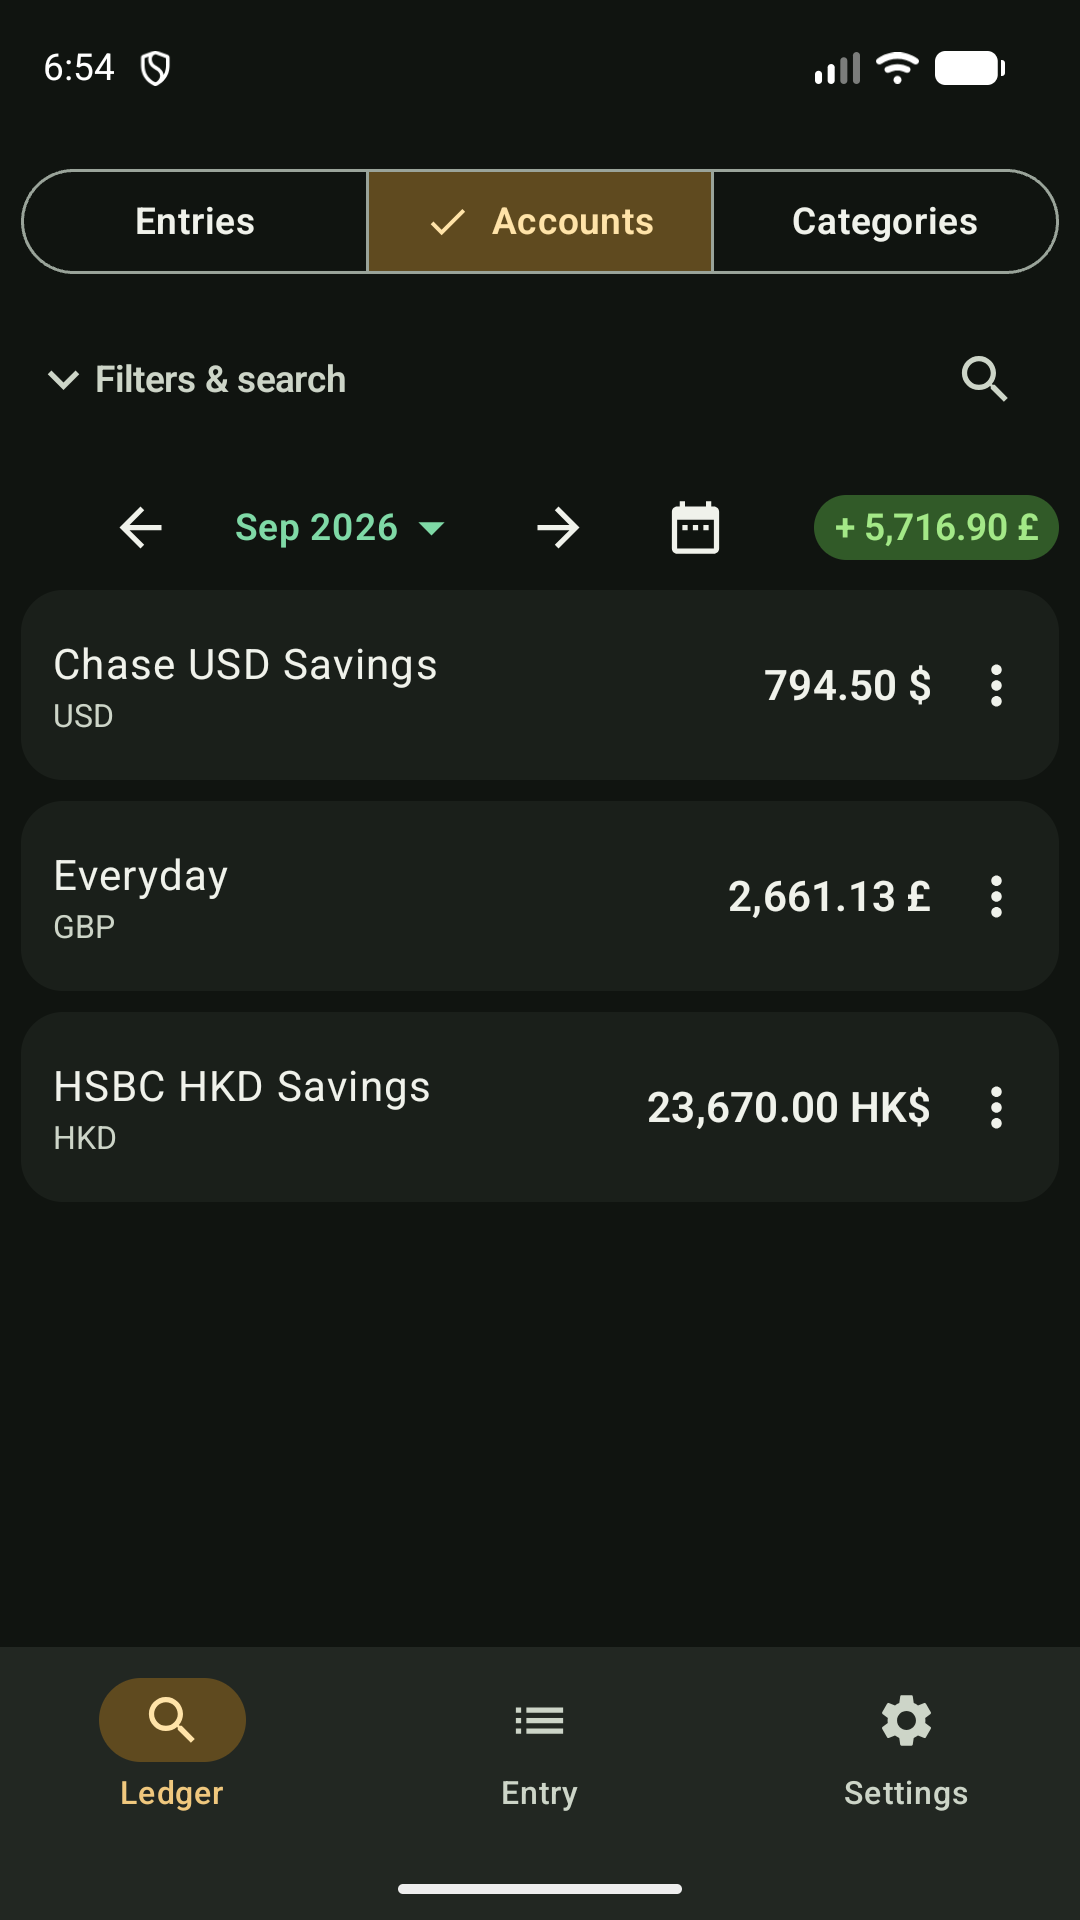
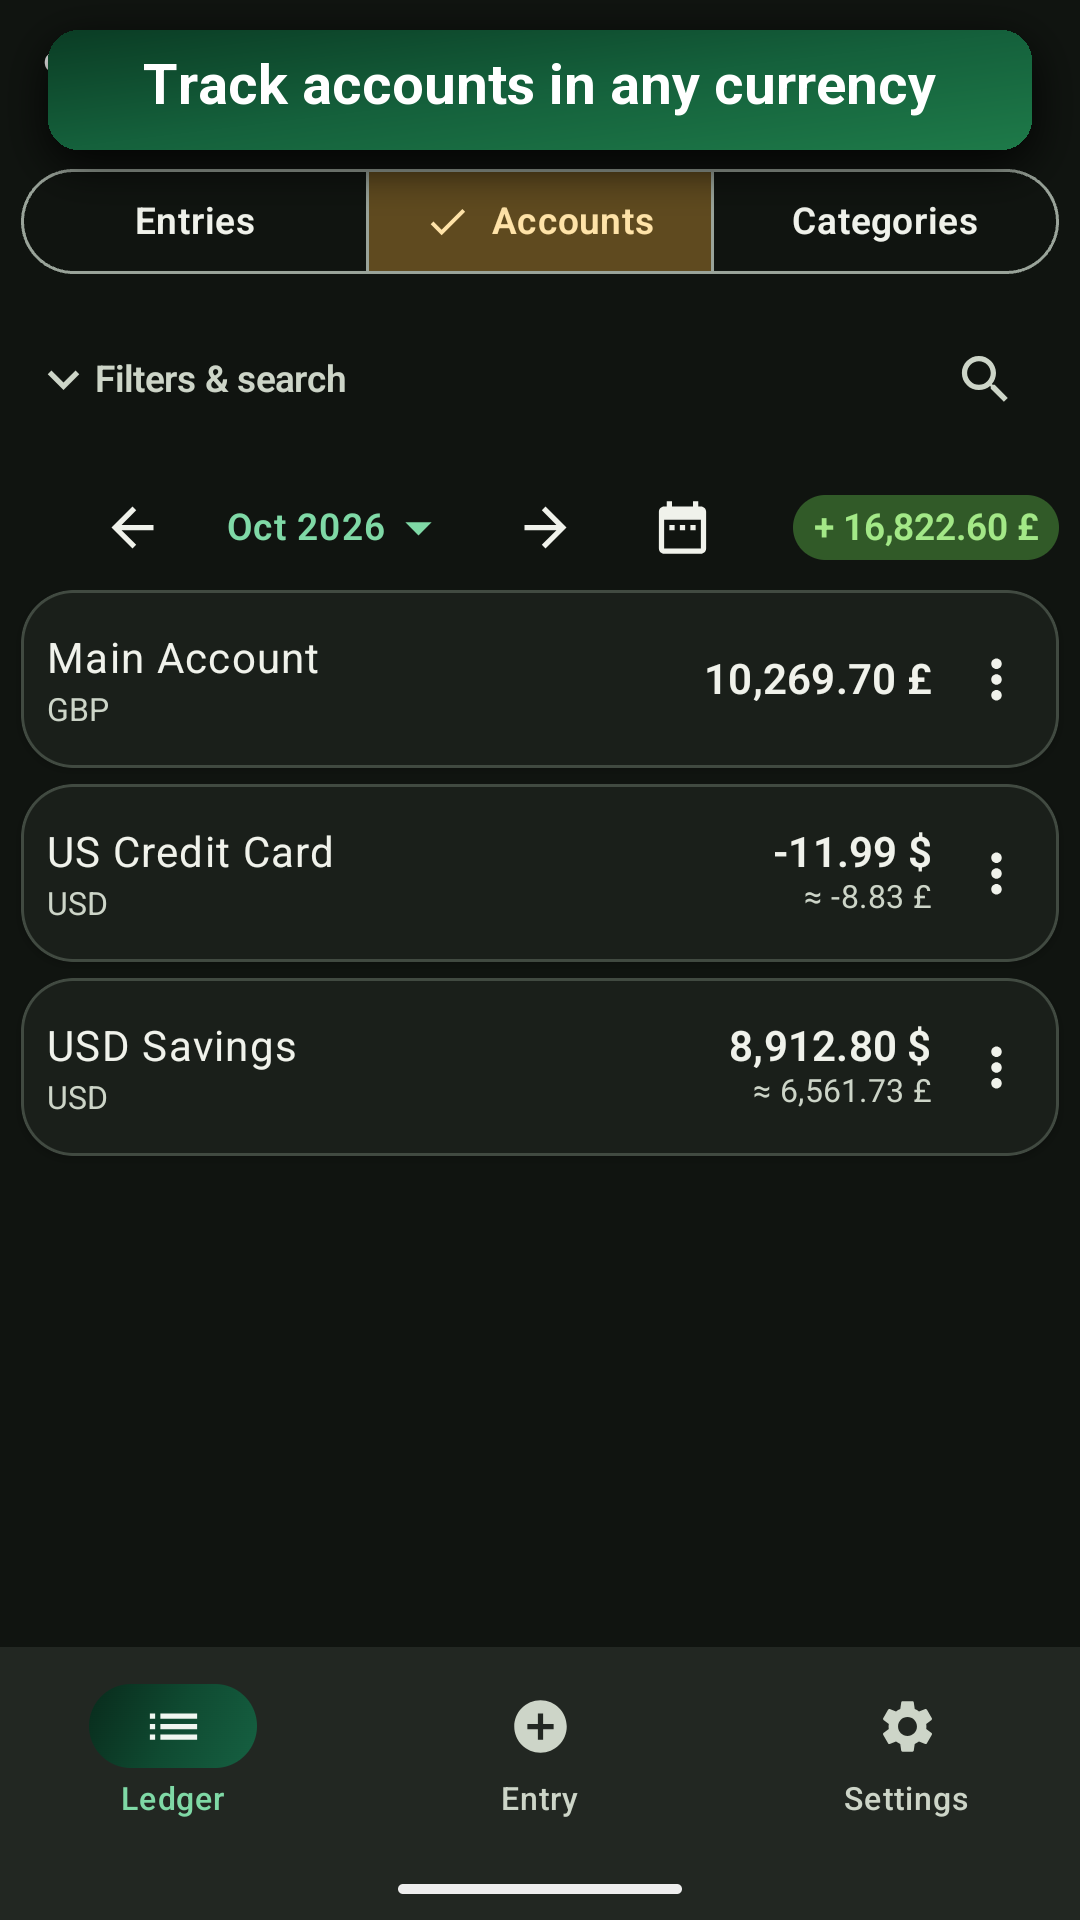
release: prepare screenshots for playstore release

diff --git a/docs/store-assets/README.md b/docs/store-assets/README.md
@@ -42,15 +42,17 @@ This also refreshes the master icon at `build/icon-render/linden-icon-1024.png`.
 - [ ] Content rating questionnaire completed in Play Console
 - [ ] Data safety form completed (local financial data; Firebase Analytics usage + Crashlytics diagnostics; advertising ID declared)
 
-## Screenshot guidance
+## Screenshots
 
-Suggested shots (capture in this order so the strongest comes first):
+The committed set (`screenshots/`, 1080 × 1920, 24-bit PNG without alpha). Each
+carries its caption as an overlay:
 
-1. Ledger — entries view for the current month
-2. Add entry dialog with the amount calculator
-3. Accounts view with multi-currency balances
-4. Categories view with totals
-5. Settings — backup / theme / default currency
+1. `screen-1-ledger-entries.png` — Ledger entries — "All your money, one timeline"
+2. `screen-2-entry-calculator.png` — amount calculator — "Add entries in seconds"
+3. `screen-3-ledger-accounts.png` — accounts and currencies — "Track accounts in any currency"
+4. `screen-4-ledger-categories.png` — category totals — "Know where it goes"
+5. `screen-5-insights.png` — 12-month trend — "12 months at a glance"
 
-Capture with `adb exec-out screencap -p > shot.png` (or the emulator camera icon).
-Crop/letterbox to a consistent aspect ratio (16:9 or 9:16) before uploading.
+Regenerate: seed the demo database with `scripts/linden-seed-demo.py` (writes
+`~/.linden/linden.db` — back up the real one first), install the debug APK on a
+16:9 emulator, then capture with `adb exec-out screencap -p > shot.png`.

diff --git a/RELEASING.md b/RELEASING.md
@@ -95,3 +95,17 @@ no native debug symbols; this is expected and safe to ignore:
 - If Linden ever adds its own native code, set `ndk { debugSymbolLevel = "SYMBOL_TABLE" }`
   on the release build type; AGP then packages symbols into the AAB automatically and
   Play picks them up (requires an NDK — AGP 9.4 defaults to NDK 28.2.13676358).
+
+## Store listing assets
+
+Store assets live in `docs/store-assets/` (icon, feature graphic, screenshots);
+listing copy lives in `docs/store-listings/`. The phone screenshots carry these
+overlay captions:
+
+| File | Caption |
+|---|---|
+| `screen-1-ledger-entries.png` | All your money, one timeline |
+| `screen-2-entry-calculator.png` | Add entries in seconds |
+| `screen-3-ledger-accounts.png` | Track accounts in any currency |
+| `screen-4-ledger-categories.png` | Know where it goes |
+| `screen-5-insights.png` | 12 months at a glance |
